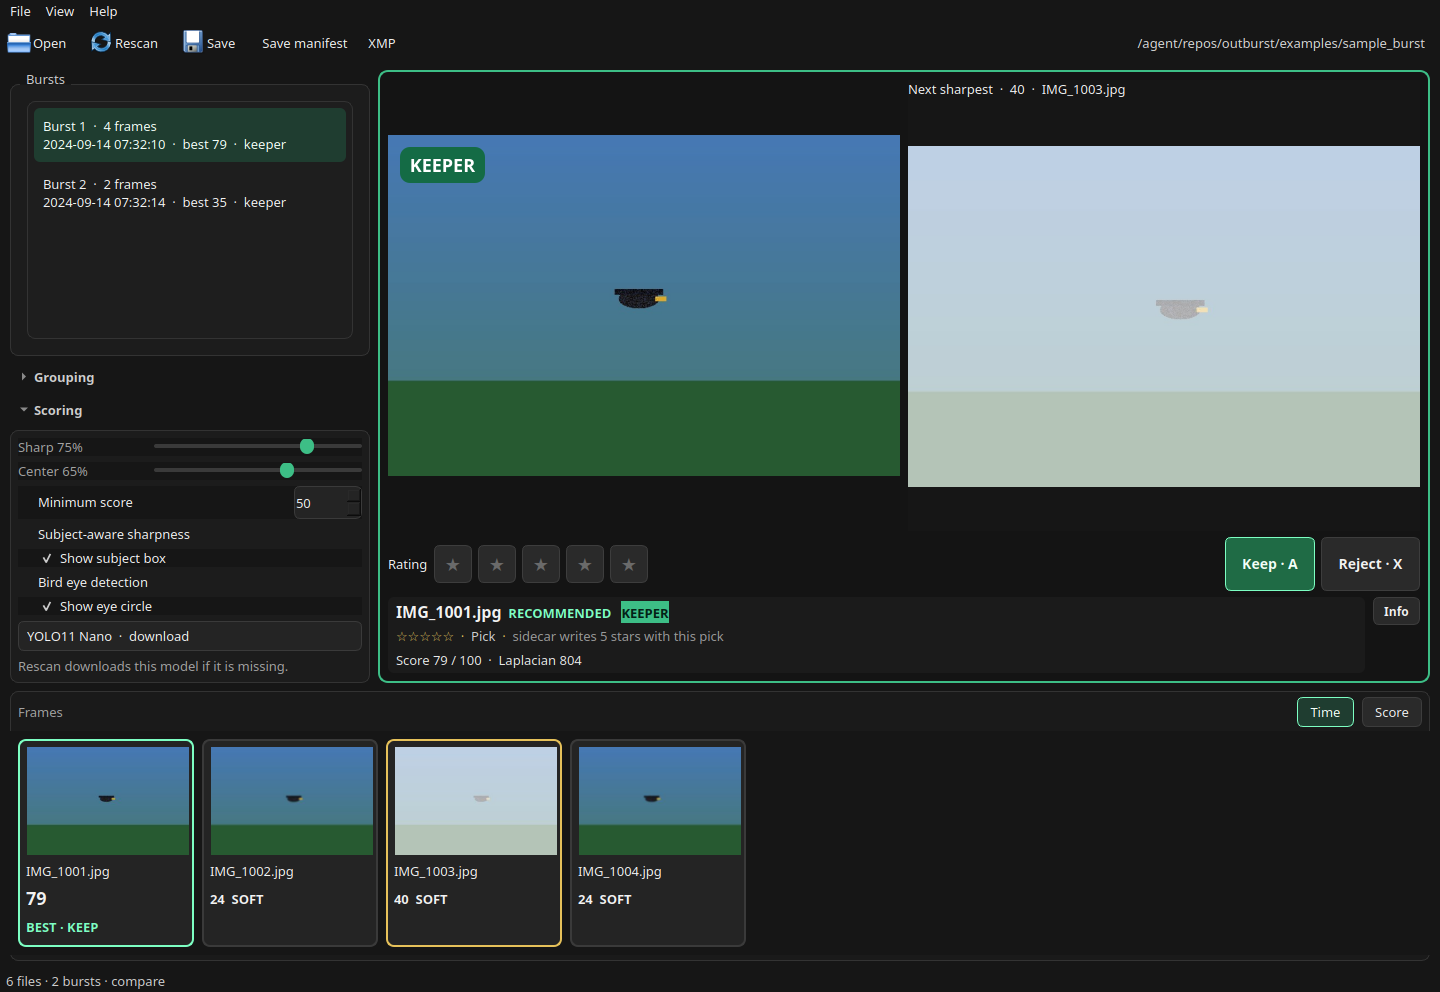
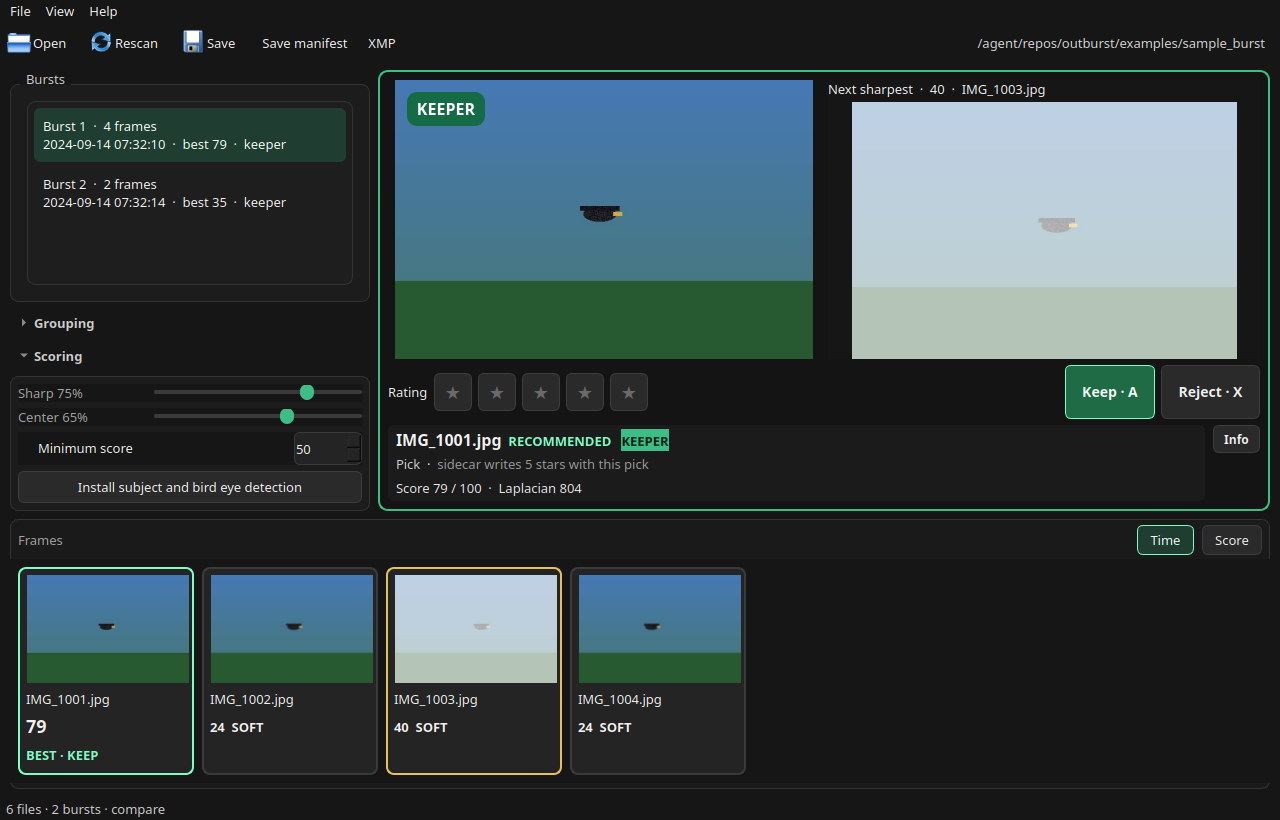
Show the star rating only on the rating buttons. (#50)
The row under the filename and the filmstrip score no longer repeat the rating with a second set of stars. The large buttons still set and show 1 through 5, and the line under the filename keeps the pick and the rating in words.

Changed region(s): [[0.0, 0.0, 1.0, 0.7317], [0.0, 0.3659, 0.5938, 1.0]]

diff --git a/src/outburst/display.py b/src/outburst/display.py
@@ -2,7 +2,7 @@
 
 Kept outside the Qt layer so the wording can be tested without a display.
 
-``filmstrip_order``, ``visible_bursts``, and ``visible_frame_indexes`` choose which frames appear and in what order. ``frame_meets_minimum_score`` compares a frame with the minimum score using the number on the filmstrip. ``burst_list_text``, ``score_caption``, ``thumb_badge``, ``star_glyphs``, ``frame_info_html``, ``frame_info_parts``, and ``format_captured`` build the labels. ``detected_eye_count`` counts frames with a bird eye. ``obvious_misses`` and ``clip_status`` find the frames G can reject.
+``filmstrip_order``, ``visible_bursts``, and ``visible_frame_indexes`` choose which frames appear and in what order. ``frame_meets_minimum_score`` compares a frame with the minimum score using the number on the filmstrip. ``burst_list_text``, ``score_caption``, ``thumb_badge``, ``frame_info_html``, ``frame_info_parts``, and ``format_captured`` build the labels. ``detected_eye_count`` counts frames with a bird eye. ``obvious_misses`` and ``clip_status`` find the frames G can reject.
 """
 
 from __future__ import annotations
@@ -185,32 +185,18 @@ def burst_list_text(
     return f"{human_burst_name(burst.id)}  ·  {count}\n{when}  ·  best {score}{eye}{suffix}"
 
 
-def star_glyphs(stars: int | None) -> str:
-    """Five stars, filled up to `stars`. None and 0 are empty.
-
-    Inputs: a star count, or None.
-    Output: five star characters, filled then empty.
-    Uses: the preview panel mark line.
-    Limitations: counts outside 0 through 5 are clamped.
-    """
-
-    count = 0 if stars is None else max(0, min(5, int(stars)))
-    return "★" * count + "☆" * (5 - count)
-
-
 def score_caption(
     composite: float | None,
     metrics: Metrics | None,
     *,
     best_composite: float | None,
-    stars: int | None = None,
 ) -> str:
     """Score for a filmstrip card, with CLIP or SOFT when the frame needs a look.
 
-    Inputs: this frame's score, its metrics, the burst's best score, and an optional star count.
-    Output: a short caption such as a percent, EYE, CLIP, SOFT, and a star count.
+    Inputs: this frame's score, its metrics, and the burst's best score.
+    Output: a short caption such as a percent, EYE, CLIP, or SOFT.
     Uses: the review window filmstrip cards.
-    Limitations: a None score or missing metrics omits the matching note. EYE is shown when an eye center was stored, including an eye too small to rate.
+    Limitations: a None score or missing metrics omits the matching note. EYE is shown when an eye center was stored, including an eye too small to rate. The star rating stays on the rating buttons.
     """
 
     text = score_percent(composite)
@@ -227,8 +213,6 @@ def score_caption(
         notes.append("SOFT")
     if notes:
         text = f"{text}  {' '.join(notes)}"
-    if stars:
-        text = f"{text}  ★{stars}"
     return text
 
 
@@ -458,8 +442,7 @@ def frame_info_parts(
     else:
         star_note = f"{stars} star" if stars == 1 else f"{stars} stars"
     mark_line = (
-        f'<div style="color:#e6c15a; margin-top:4px;">{star_glyphs(stars)}'
-        f' &nbsp;·&nbsp; <span style="color:#d0d0d0;">{escape(flag)}</span>'
+        f'<div style="margin-top:4px;"><span style="color:#d0d0d0;">{escape(flag)}</span>'
         f' &nbsp;·&nbsp; <span style="color:#9a9a9a;">{escape(star_note)}</span></div>'
     )
     title = (

diff --git a/tests/test_gui_smoke.py b/tests/test_gui_smoke.py
@@ -1016,7 +1016,10 @@ def test_star_keys_are_saved_apart_from_the_pick_flag(qt_app, tmp_path: Path) ->
     qt_app.processEvents()
     assert window._stars[written["sharp"]] == 4
     assert window._decisions[written["sharp"]] == "keep"
-    assert "★★★★☆" in window.viewer.info.text()
+    assert "★" not in window.viewer.info.text()
+    assert "4 stars" in window.viewer.info.text()
+    selected = next(card for card in window.filmstrip._cards if card._selected)
+    assert "★" not in selected.score.text()
     assert window.viewer.star_buttons[3].property("filled") == "true"
     assert window.viewer.star_buttons[4].property("filled") == "false"
     QTest.keyClick(window, Qt.Key.Key_4)

diff --git a/src/outburst/gui/main_window.py b/src/outburst/gui/main_window.py
@@ -2358,7 +2358,6 @@ class MainWindow(QMainWindow):
                     None if analysis is None else analysis.composite,
                     None if analysis is None else analysis.metrics,
                     best_composite=None if index == best else best_composite,
-                    stars=self._stars.get(frame.path),
                 ),
                 badge=thumb_badge(index == best, decision),
                 thumb_path=None if analysis is None else analysis.thumb_path,

diff --git a/tests/test_display.py b/tests/test_display.py
@@ -123,7 +123,7 @@ def test_html_escapes_filenames_and_marks_the_recommendation() -> None:
         subject_active=False,
         stars=2,
     )
-    assert "★★☆☆☆" in rated
+    assert "★" not in rated
     assert "2 stars" in rated
     assert "No flag" in rated
     assert "Burst 4" in html

diff --git a/src/outburst/__init__.py b/src/outburst/__init__.py
@@ -3,4 +3,4 @@
 This file defines no functions. It publishes ``__version__``.
 """
 
-__version__ = "0.1.7"
+__version__ = "0.1.8"

diff --git a/README.md b/README.md
@@ -55,7 +55,7 @@ The Windows setup program and a source checkout have different requirements. Cul
 **Windows 11 setup program**
 
 - Windows 11, 64-bit, on an Intel or AMD processor.
-- The setup program is [Outburst-Setup-0.1.7.exe](https://github.com/JacobGreen-13/outburst/releases/tag/v0.1.7) on the Releases page. It is about 80 MB.
+- The setup program is [Outburst-Setup-0.1.8.exe](https://github.com/JacobGreen-13/outburst/releases/tag/v0.1.8) on the Releases page. It is about 80 MB.
 - It installs for the current user under `%LOCALAPPDATA%\Outburst` and adds a Start menu shortcut. ExifTool is included beside the app. Open **Outburst** from the Start menu after setup.
 - The setup program is unsigned. The first time Windows SmartScreen appears, choose **More info**, then **Run anyway**.
 
@@ -109,7 +109,7 @@ Subject detection uses MPS on Apple Silicon when PyTorch provides it, CUDA on NV
 
 ### Windows 11
 
-1. Download [Outburst-Setup-0.1.7.exe](https://github.com/JacobGreen-13/outburst/releases/tag/v0.1.7).
+1. Download [Outburst-Setup-0.1.8.exe](https://github.com/JacobGreen-13/outburst/releases/tag/v0.1.8).
 2. If SmartScreen appears, choose **More info**, then **Run anyway**.
 3. Finish the setup. Open **Outburst** from the Start menu.
 4. In **Scoring**, press **Install subject and bird eye detection**.
@@ -127,7 +127,7 @@ To build that setup program on a Windows machine:
 powershell -ExecutionPolicy Bypass -File packaging\windows\build.ps1
 ```
 
-The result is `dist\installer\Outburst-Setup-0.1.7.exe`. GitHub Actions builds the same file with [`.github/workflows/windows-installer.yml`](.github/workflows/windows-installer.yml). Inno Setup 6 is required when you build it by hand. `choco install innosetup` provides it.
+The result is `dist\installer\Outburst-Setup-0.1.8.exe`. GitHub Actions builds the same file with [`.github/workflows/windows-installer.yml`](.github/workflows/windows-installer.yml). Inno Setup 6 is required when you build it by hand. `choco install innosetup` provides it.
 
 ### From source
 
@@ -331,7 +331,7 @@ pip install -e ".[dev]"
 pytest
 ```
 
-On Windows, activate with `.venv\Scripts\activate`. See [docs/architecture.md](docs/architecture.md) for the scoring formula, cache keys, and which modules write files. The launcher is the supported way to install and open Outburst from source. The Windows 11 setup program is on the [Releases](https://github.com/JacobGreen-13/outburst/releases/tag/v0.1.7) page.
+On Windows, activate with `.venv\Scripts\activate`. See [docs/architecture.md](docs/architecture.md) for the scoring formula, cache keys, and which modules write files. The launcher is the supported way to install and open Outburst from source. The Windows 11 setup program is on the [Releases](https://github.com/JacobGreen-13/outburst/releases/tag/v0.1.8) page.
 
 ## Feedback
 
